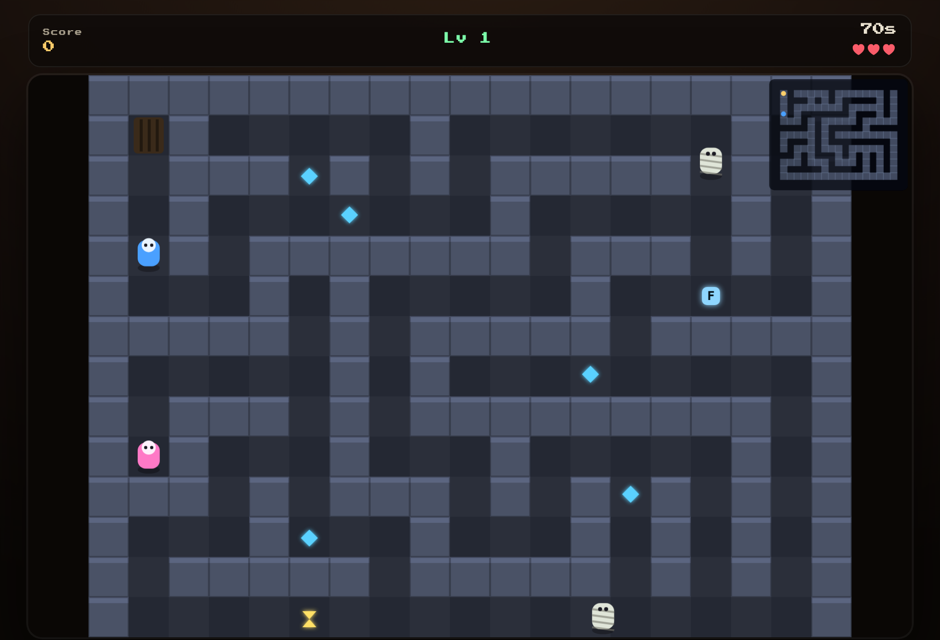
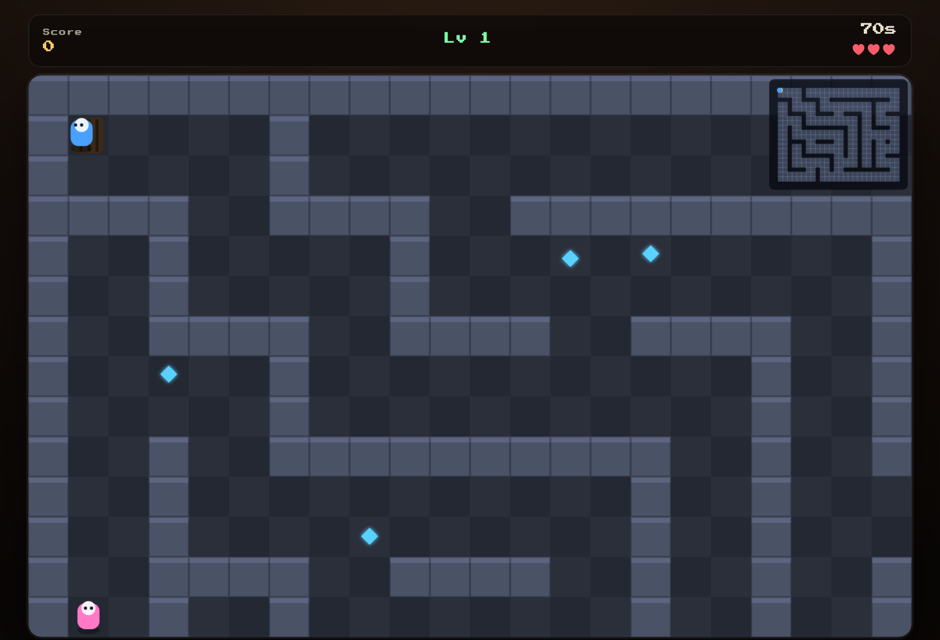
fix: make Castle actually finishable (fair maze + navigation) (#1)
Playtesting found the game near-impossible. Root causes and fixes:

- 1-tile-wide corridors + one-hit death meant a chaser could hard-block the
  only path with no way past. Regenerate mazes with 2-tile-wide corridors and
  2x2 rooms so you can juke past enemies.
- No cornering assist: you couldn't turn into a perpendicular corridor unless
  perfectly aligned. Add Pac-Man-style cornering (ease toward the corridor
  centre when a pressed direction is blocked), and shrink collision boxes
  (r 13 -> 11) for more turning slack.
- Enemies were nearly as fast as the player with perfect, omniscient
  pathfinding. Slow them (mummy 2.1->1.6, bat 3.2->2.5, guard 2.4->1.9) and add
  an aggro radius so distant enemies wander instead of all pincering you.
- A timeout death didn't refund time, so one timeout instantly burned all three
  lives. Respawn now restores time (>= 30s) and gives more collision grace.

Verified with a pathfinding auto-player: previously stuck on level 1, now clears
multiple levels; the real input loop runs with no errors.

diff --git a/js/game.js b/js/game.js
@@ -52,33 +52,42 @@
 
 	/* --------------------------- maze generation -------------------------- */
 
+	// Recursive-backtracker maze with 2-tile-wide corridors and 2x2 rooms, so a
+	// one-hit-death chaser can never hard-block a 1-wide corridor — there's room
+	// to juke past. Each cell is a 2x2 floor block; cells are separated by a
+	// 1-tile wall that gets knocked out (2 tiles wide) when a passage is carved.
 	function generateMaze(cols, rows) {
-		gridW = cols * 2 + 1; gridH = rows * 2 + 1;
+		var P = 3; // pitch: 2 floor + 1 wall
+		gridW = cols * P + 1; gridH = rows * P + 1;
 		grid = [];
 		for (var y = 0; y < gridH; y++) { grid[y] = []; for (var x = 0; x < gridW; x++) { grid[y][x] = 1; } }
+		function carveCell(cx, cy) { for (var a = 1; a <= 2; a++) { for (var b = 1; b <= 2; b++) { grid[cy * P + a][cx * P + b] = 0; } } }
+		function carveWall(cx, cy, nx, ny) {
+			if (cx !== nx) { var wx = Math.min(cx, nx) * P + P; grid[cy * P + 1][wx] = 0; grid[cy * P + 2][wx] = 0; }
+			else { var wy = Math.min(cy, ny) * P + P; grid[wy][cx * P + 1] = 0; grid[wy][cx * P + 2] = 0; }
+		}
 		var visited = [];
 		for (y = 0; y < rows; y++) { visited[y] = []; for (x = 0; x < cols; x++) { visited[y][x] = false; } }
-		var stack = [[0, 0]]; visited[0][0] = true; grid[1][1] = 0;
+		var stack = [[0, 0]]; visited[0][0] = true; carveCell(0, 0);
 		while (stack.length) {
-			var c = stack[stack.length - 1], cx = c[0], cy = c[1];
-			var nb = [];
+			var c = stack[stack.length - 1], cx = c[0], cy = c[1], nb = [];
 			[[1, 0], [-1, 0], [0, 1], [0, -1]].forEach(function (d) {
 				var nx = cx + d[0], ny = cy + d[1];
-				if (nx >= 0 && ny >= 0 && nx < cols && ny < rows && !visited[ny][nx]) { nb.push([nx, ny, d]); }
+				if (nx >= 0 && ny >= 0 && nx < cols && ny < rows && !visited[ny][nx]) { nb.push([nx, ny]); }
 			});
 			if (!nb.length) { stack.pop(); continue; }
 			var pick = nb[(Math.random() * nb.length) | 0];
 			visited[pick[1]][pick[0]] = true;
-			grid[cy * 2 + 1 + pick[2][1]][cx * 2 + 1 + pick[2][0]] = 0; // knock down the wall between
-			grid[pick[1] * 2 + 1][pick[0] * 2 + 1] = 0;
+			carveCell(pick[0], pick[1]); carveWall(cx, cy, pick[0], pick[1]);
 			stack.push([pick[0], pick[1]]);
 		}
-		// Braid a few dead-ends into loops so it's less linear.
-		for (var i = 0; i < cols * rows * 0.12; i++) {
-			var rx = 1 + 2 * ((Math.random() * cols) | 0), ry = 1 + 2 * ((Math.random() * rows) | 0);
+		// Braid: knock out extra cell walls so there are always loops / alternate
+		// routes to escape a chaser.
+		for (var i = 0; i < cols * rows * 0.35; i++) {
+			var rcx = (Math.random() * cols) | 0, rcy = (Math.random() * rows) | 0;
 			var dir = [[1, 0], [-1, 0], [0, 1], [0, -1]][(Math.random() * 4) | 0];
-			var wx = rx + dir[0], wy = ry + dir[1];
-			if (wx > 0 && wy > 0 && wx < gridW - 1 && wy < gridH - 1) { grid[wy][wx] = 0; }
+			var ncx = rcx + dir[0], ncy = rcy + dir[1];
+			if (ncx >= 0 && ncy >= 0 && ncx < cols && ncy < rows) { carveWall(rcx, rcy, ncx, ncy); }
 		}
 	}
 
@@ -135,7 +144,7 @@
 		var far = start, best = -1;
 		tiles.forEach(function (t) { if (dist[t.ty][t.tx] > best) { best = dist[t.ty][t.tx]; far = t; } });
 
-		player = { x: 0, y: 0, r: 13, speed: 3.4, facing: 'down', dead: false, anim: 0, sx: start.tx, sy: start.ty };
+		player = { x: 0, y: 0, r: 11, speed: 3.4, facing: 'down', dead: false, anim: 0, sx: start.tx, sy: start.ty };
 		var sc = centerOf(start.tx, start.ty); player.x = sc.x; player.y = sc.y;
 		friend = { x: sc.x, y: sc.y, r: 12, facing: 'down', anim: 0, tx: far.tx, ty: far.ty };
 		var fc = centerOf(far.tx, far.ty); friend.x = fc.x; friend.y = fc.y;
@@ -167,17 +176,19 @@
 		for (i = 0; i < lvl.spikes; i++) { var t = take(4); if (t) { spikes.push({ tx: t.tx, ty: t.ty, phase: rand(0, 2) }); } }
 
 		var espawns = [];
-		function spawn(type, speed, count) {
+		// Speeds are well under the player's 3.4 so chasers are outrunnable.
+		// `aggro` is the range (px) within which a chaser actively pathfinds to
+		// you; beyond it they wander, so they never all pincer you at once.
+		function spawn(type, speed, aggro, count) {
 			for (var n = 0; n < count; n++) {
 				var t = take(8); if (!t) { t = take(4); } if (!t) { continue; }
 				var cc = centerOf(t.tx, t.ty);
-				espawns.push({ x: cc.x, y: cc.y, r: 13, type: type, speed: speed, facing: 'down', path: [], repath: 0, anim: rand(0, 6.28), sx: t.tx, sy: t.ty });
+				espawns.push({ x: cc.x, y: cc.y, r: 11, type: type, speed: speed, aggro: aggro, facing: 'down', path: [], repath: 0, anim: rand(0, 6.28), sx: t.tx, sy: t.ty, dir: [[1, 0], [-1, 0], [0, 1], [0, -1]][(Math.random() * 4) | 0] });
 			}
 		}
-		spawn('mummy', 2.1, lvl.mummies);
-		spawn('bat', 3.2, lvl.bats);
-		spawn('guard', 2.4, lvl.guards);
-		espawns.forEach(function (e) { if (e.type === 'guard') { e.dir = [[1, 0], [-1, 0], [0, 1], [0, -1]][(Math.random() * 4) | 0]; } });
+		spawn('mummy', 1.6, 300, lvl.mummies);
+		spawn('bat', 2.5, 380, lvl.bats);
+		spawn('guard', 1.9, 0, lvl.guards);
 		enemies = espawns;
 
 		showIntro();
@@ -189,6 +200,9 @@
 		enemies.forEach(function (e) { var c = centerOf(e.sx, e.sy); e.x = c.x; e.y = c.y; e.path = []; });
 		if (rescued) { friend.x = sc.x; friend.y = sc.y; }
 		trail = []; freeze = 1.2; noHit = false;
+		// Refund time so a timeout death can't instantly cascade through every
+		// life, and give a fair second chance after any death.
+		timeLeft = Math.max(timeLeft, 30);
 	}
 
 	function startGame() { newGame(); }
@@ -274,10 +288,14 @@
 		var m = Math.hypot(mx, my);
 		if (m > 0) {
 			mx /= m; my /= m;
-			var nx = p.x + mx * sp * f;
-			if (!boxHitsWall(nx, p.y, p.r)) { p.x = nx; }
-			var ny = p.y + my * sp * f;
-			if (!boxHitsWall(p.x, ny, p.r)) { p.y = ny; }
+			var sf = sp * f, movedX = false, movedY = false;
+			if (mx !== 0 && !boxHitsWall(p.x + mx * sf, p.y, p.r)) { p.x += mx * sf; movedX = true; }
+			if (my !== 0 && !boxHitsWall(p.x, p.y + my * sf, p.r)) { p.y += my * sf; movedY = true; }
+			// Cornering assist: if a pressed direction is blocked, ease toward the
+			// corridor centre on the other axis so turns round smoothly (Pac-Man
+			// style) instead of jamming when you're not perfectly aligned.
+			if (mx !== 0 && !movedX) { var cy = (Math.floor(p.y / TILE) + 0.5) * TILE, dy = clamp(cy - p.y, -sf, sf); if (Math.abs(cy - p.y) > 1 && !boxHitsWall(p.x, p.y + dy, p.r)) { p.y += dy; } }
+			if (my !== 0 && !movedY) { var cx = (Math.floor(p.x / TILE) + 0.5) * TILE, dx = clamp(cx - p.x, -sf, sf); if (Math.abs(cx - p.x) > 1 && !boxHitsWall(p.x + dx, p.y, p.r)) { p.x += dx; } }
 			p.facing = Math.abs(mx) > Math.abs(my) ? (mx > 0 ? 'right' : 'left') : (my > 0 ? 'down' : 'up');
 			p.anim += dt * 10;
 		}
@@ -314,13 +332,16 @@
 		var f = dt * 60, pt = tileOf(player);
 		enemies.forEach(function (e) {
 			e.anim += dt * 6;
-			if (e.type === 'guard') { patrol(e, f); }
-			else {
+			var d = Math.hypot(e.x - player.x, e.y - player.y);
+			if (e.type === 'guard' || d > e.aggro) {
+				e.path.length = 0;
+				patrol(e, f * (e.type === 'guard' ? 1 : 0.7)); // wander until it notices you
+			} else {
 				e.repath -= dt;
-				if (e.repath <= 0 || !e.path.length) { e.path = bfsPath(tileOf(e), pt); e.repath = e.type === 'bat' ? 0.25 : 0.45; }
+				if (e.repath <= 0 || !e.path.length) { e.path = bfsPath(tileOf(e), pt); e.repath = e.type === 'bat' ? 0.3 : 0.5; }
 				followPath(e, f);
 			}
-			if (!player.dead && Math.hypot(e.x - player.x, e.y - player.y) < e.r + player.r - 6) { hit(); }
+			if (!player.dead && d < e.r + player.r - 10) { hit(); }
 		});
 	}
 
